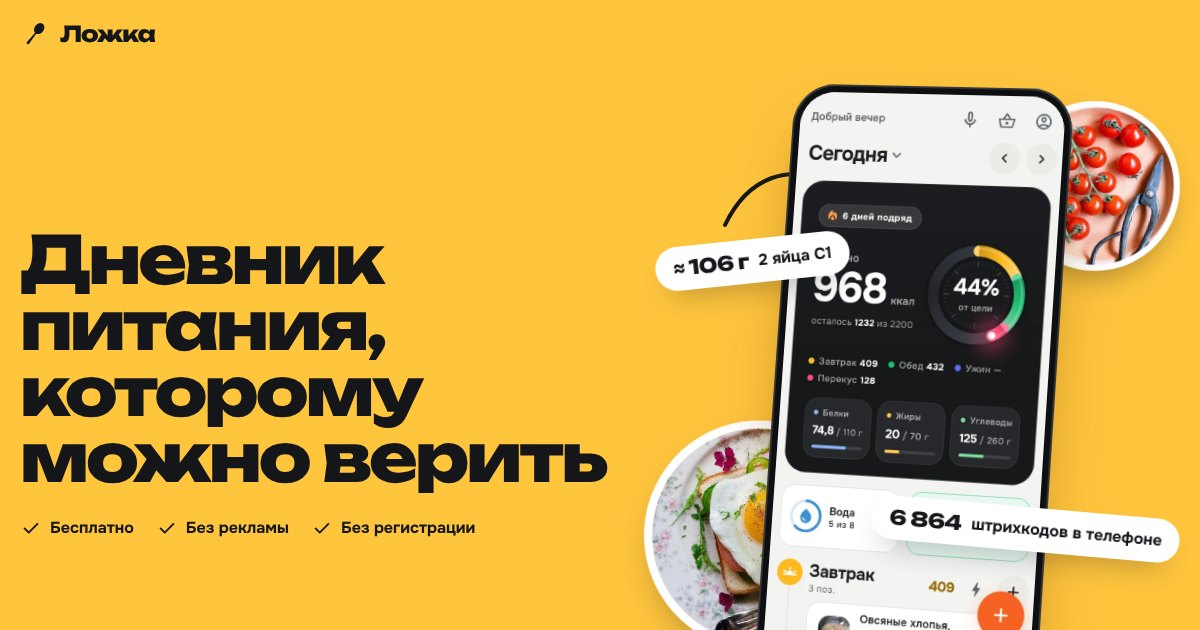
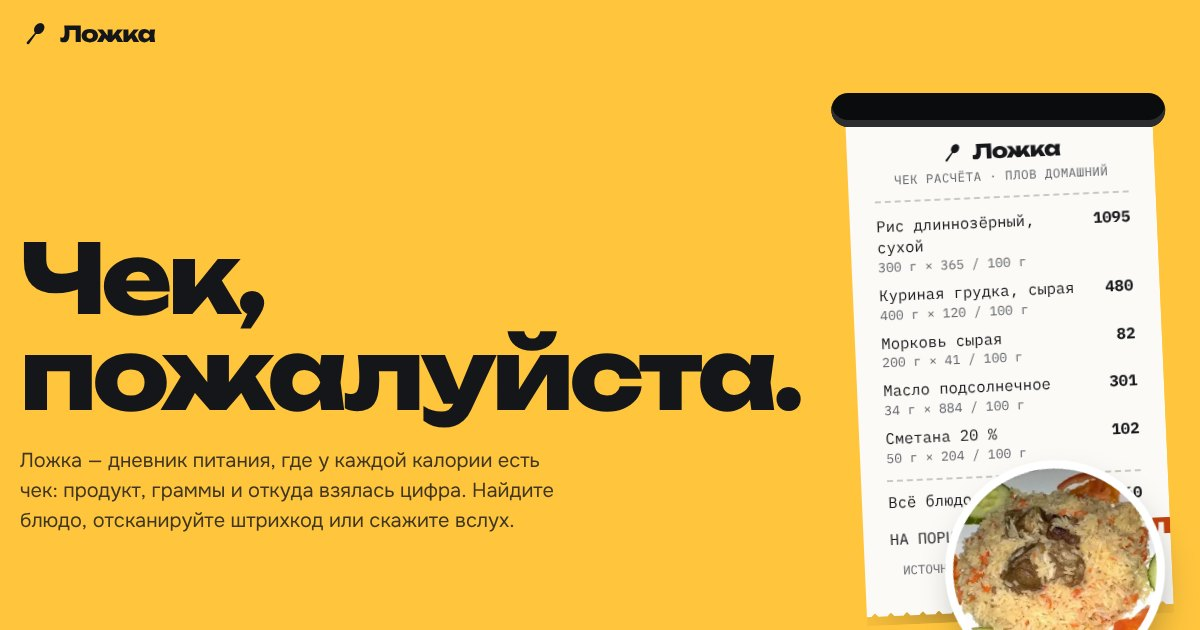
Сайт: кампания «Чек, пожалуйста.» — чек в первом экране, рубрика «Мерьте ложками», «Что внутри» чеком
Claude-Session: https://claude.ai/code/session_01JKDxRTKabQ4jgJoG6e5K5w

diff --git a/index.html b/index.html
@@ -57,6 +57,29 @@ section{position:relative;overflow:hidden}
 .c-honey .lead,.c-leaf .lead,.c-berry .lead,.c-ember .lead{color:rgba(20,22,26,.82)}
 .c-dusk .lead,.c-ink .lead{color:rgba(255,255,255,.84)}
 
+@font-face{font-family:"Plex";font-style:normal;font-display:swap;font-weight:400;src:url(fonts/ibm-plex-mono-cyrillic-400-normal.woff2) format("woff2");unicode-range:U+0400-045F}
+@font-face{font-family:"Plex";font-style:normal;font-display:swap;font-weight:400;src:url(fonts/ibm-plex-mono-latin-400-normal.woff2) format("woff2");unicode-range:U+0000-00FF,U+2000-206F,U+2248,U+00D7,U+00F7}
+@font-face{font-family:"Plex";font-style:normal;font-display:swap;font-weight:700;src:url(fonts/ibm-plex-mono-cyrillic-700-normal.woff2) format("woff2");unicode-range:U+0400-045F}
+@font-face{font-family:"Plex";font-style:normal;font-display:swap;font-weight:700;src:url(fonts/ibm-plex-mono-latin-700-normal.woff2) format("woff2");unicode-range:U+0000-00FF,U+2000-206F,U+2248,U+00D7,U+00F7}
+/* чек — главный герой кампании «Чек, пожалуйста.» */
+.tk{position:relative;background:#FBFAF6;color:#17181B;font:400 var(--fs,15px)/1.4 "Plex",ui-monospace,monospace;padding:1.8em 1.7em 1.6em;box-shadow:0 40px 80px -36px rgba(0,0,0,.6)}
+.tk::after{content:"";position:absolute;left:0;right:0;bottom:-12px;height:12px;background:linear-gradient(-45deg,transparent 8px,#FBFAF6 0) 0 0/16px 12px,linear-gradient(45deg,transparent 8px,#FBFAF6 0) 0 0/16px 12px}
+.tk .hd{text-align:center;padding-bottom:.7em;border-bottom:2px dashed #C9C8C1;margin-bottom:.6em}
+.tk .hd b{display:flex;justify-content:center;align-items:center;gap:.4em;font:800 1.3em/1.1 var(--d);letter-spacing:-.03em}
+.tk .hd b svg{width:1.2em;height:1.2em}
+.tk .hd span{display:block;font-size:.8em;color:#5E6168;margin-top:.35em;letter-spacing:.04em}
+.tk .ln{display:flex;justify-content:space-between;align-items:baseline;gap:1em;padding:.25em 0}
+.tk .ln small{display:block;color:#5E6168;font-size:.84em}
+.tk .ln em{font-style:normal;font-weight:700;white-space:nowrap}
+.tk .dt{flex:1;border-bottom:2px dotted #B9B8B1;transform:translateY(-.3em)}
+.tk .sum{border-top:2px dashed #C9C8C1;margin-top:.5em;padding-top:.7em}
+.tk .tot{display:flex;justify-content:space-between;align-items:baseline;gap:1em;margin-top:.2em;white-space:nowrap}
+.tk .tot b{font:800 1.8em/1 var(--d);letter-spacing:-.05em;color:#C2410C}
+.tk .ft{margin-top:.9em;text-align:center;font-size:.8em;color:#5E6168}
+.tk .bc{height:2.2em;margin:.8em auto 0;width:66%;background:repeating-linear-gradient(90deg,#17181B 0 2px,transparent 2px 4px,#17181B 4px 7px,transparent 7px 9px,#17181B 9px 10px,transparent 10px 13px)}
+.slot{position:absolute;height:34px;border-radius:17px;background:#0B0C0E;box-shadow:inset 0 -7px 0 #2B2D31;z-index:2}
+.rubric{display:inline-flex;align-items:center;padding:9px 16px;border-radius:999px;background:var(--dark);color:#fff;font:700 14px/1 var(--f);margin-bottom:18px}
+
 /* кнопки */
 .btn{display:inline-flex;align-items:center;justify-content:center;gap:10px;min-height:58px;padding:0 30px;border-radius:999px;font:700 19px/1 var(--f);text-decoration:none;border:0;cursor:pointer;transition:transform .15s ease,box-shadow .2s ease}
 .btn .ico{width:21px;height:21px}
@@ -104,9 +127,11 @@ section{position:relative;overflow:hidden}
 .trust{display:flex;flex-wrap:wrap;gap:10px 22px;margin:26px 0 0;padding:0;list-style:none;font-weight:700;font-size:16px}
 .trust li{display:flex;align-items:center;gap:8px}
 .fine{margin-top:14px;font-size:14px;opacity:.78}
-.stage{position:relative;height:640px;display:grid;place-items:center}
+.stage{position:relative;height:760px;display:grid;place-items:start center}
+.hero-tk{--fs:15.5px;width:min(420px,92%);margin-top:28px;rotate:-2.5deg;transform-origin:top center;z-index:1}
+.stage .slot{left:50%;translate:-50% 0;top:10px;width:min(480px,100%)}
 .stage .phone{--w:290px;z-index:1}
-.stage .p1{--p:230px;--r:-14deg;left:0;bottom:30px}
+.stage .p1{--p:220px;--r:-12deg;right:0;bottom:0;z-index:2}
 .stage .p2{--p:170px;--r:10deg;right:0;top:20px}
 .stage .s1{left:2%;top:26%;--r:-6deg}
 .stage .s2{right:0;bottom:22%;--r:5deg}
@@ -114,7 +139,8 @@ section{position:relative;overflow:hidden}
 @media (prefers-reduced-motion:no-preference){
   .hero .rv{animation:up .8s cubic-bezier(.2,.75,.2,1) both}
   .hero .rv:nth-child(2){animation-delay:.07s}.hero .rv:nth-child(3){animation-delay:.14s}.hero .rv:nth-child(4){animation-delay:.21s}.hero .rv:nth-child(5){animation-delay:.28s}
-  .stage .phone{animation:rise 1s cubic-bezier(.2,.75,.2,1) .1s both}
+  .hero-tk{animation:tprint 1.4s cubic-bezier(.3,.7,.2,1) .2s both}
+  @keyframes tprint{from{clip-path:inset(0 0 100% 0);translate:0 -260px}to{clip-path:inset(0 0 -20px 0);translate:0 0}}
   .stage .plate{animation:spin .9s cubic-bezier(.2,.8,.2,1) both,float 6s ease-in-out 1s infinite alternate}
   .stage .p2{animation-delay:.15s,1.2s}
   .stage .stk{animation:pop .6s cubic-bezier(.2,.9,.3,1.3) both}.stage .s1{animation-delay:.6s}.stage .s2{animation-delay:.8s}
@@ -124,9 +150,8 @@ section{position:relative;overflow:hidden}
   @keyframes spin{from{opacity:0;rotate:-160deg;scale:.4}}
   @keyframes float{to{translate:0 -14px}}
 }
-@media (max-width:940px){.hero .grid{grid-template-columns:1fr;min-height:0;padding-top:20px}.stage{height:560px}}
-@media (max-width:520px){.stage{height:500px}.stage .phone{--w:236px}.stage .p1{--p:150px;left:-10px;bottom:10px}.stage .p2{--p:120px;right:-6px;top:0}
-  .stage .s1{left:0;top:8%}.stage .s2{right:0;bottom:8%}.stage .doodle{display:none}.stk{font-size:14px;padding:10px 14px}.stk b{font-size:17px}}
+@media (max-width:940px){.hero .grid{grid-template-columns:1fr;min-height:0;padding-top:20px}.stage{height:740px}.stage .p1{--p:180px;right:4%;bottom:-10px}}
+@media (max-width:520px){.stage{height:580px}.hero-tk{--fs:13px}.stage .p1{--p:130px;right:-16px;bottom:0}.stk{font-size:14px;padding:10px 14px}.stk b{font-size:17px}}
 
 /* лента тарелок */
 .belt{padding:40px 0;overflow:hidden;-webkit-mask:linear-gradient(90deg,transparent,#000 6%,#000 94%,transparent);mask:linear-gradient(90deg,transparent,#000 6%,#000 94%,transparent)}
@@ -147,6 +172,15 @@ section{position:relative;overflow:hidden}
 @media (max-width:980px){.steps4{grid-template-columns:repeat(4,78%);overflow-x:auto;scroll-snap-type:x mandatory;padding-bottom:8px;margin-inline:-20px;padding-inline:20px;scrollbar-width:none}
   .st{scroll-snap-align:start}}
 @media (min-width:600px) and (max-width:980px){.steps4{grid-template-columns:repeat(4,44%)}}
+
+/* рубрика «Мерьте ложками» */
+.units{display:grid;grid-template-columns:repeat(3,1fr);gap:16px}
+.unit{border-radius:32px;padding:26px;min-height:380px;display:flex;flex-direction:column;justify-content:flex-end;gap:6px;position:relative;overflow:hidden}
+.unit .ill{position:absolute;left:0;right:0;top:20px;height:230px}
+.unit .ill svg{position:absolute}
+.unit b{font:800 clamp(22px,2.2vw,28px)/1.1 var(--d);letter-spacing:-.04em}
+.unit span{font-size:15.5px;opacity:.85}
+@media (max-width:860px){.units{grid-template-columns:1fr}.unit{min-height:320px}}
 
 /* способы — вкладки */
 .ways{display:grid;grid-template-columns:1fr 1fr;gap:clamp(24px,5vw,72px);align-items:center}
@@ -219,6 +253,14 @@ section{position:relative;overflow:hidden}
 @media (max-width:900px){.nums{grid-template-columns:1fr 1fr}}
 @media (max-width:420px){.num{padding:22px 18px;min-height:170px}}
 
+/* что внутри — чеком */
+.inside{display:grid;grid-template-columns:1fr 1fr;gap:clamp(30px,6vw,90px);align-items:center}
+.inside .head{margin-bottom:0}
+.in-tk{position:relative;padding-top:18px}
+.in-tk .slot{left:-4%;right:-4%;top:0}
+.in-tk .tk{rotate:1.5deg}
+@media (max-width:900px){.inside{grid-template-columns:1fr}}
+
 /* рецепты */
 .bento{display:grid;grid-template-columns:repeat(4,1fr);grid-auto-rows:230px;gap:14px}
 .tile{position:relative;margin:0;border-radius:28px;overflow:hidden;background:#fff}
@@ -262,8 +304,8 @@ section{position:relative;overflow:hidden}
 .final h2{font-size:clamp(38px,7vw,96px)}
 .final .lead{margin:22px auto 0}
 .final .cta{justify-content:center}
-.final .plate{--p:clamp(110px,16vw,220px)}
-.final .q1{left:-40px;top:30px;--r:-12deg}.final .q2{right:-40px;top:70px;--r:9deg}.final .q3{left:-110px;bottom:60px;--r:6deg}.final .q4{right:-110px;bottom:40px;--r:-8deg}
+.final .plate{--p:clamp(100px,12vw,170px)}
+.final .q1{left:-30px;top:10px;--r:-12deg}.final .q2{right:-30px;top:20px;--r:9deg}.final .q3{left:-110px;bottom:60px;--r:6deg}.final .q4{right:-110px;bottom:40px;--r:-8deg}
 .inst{position:relative;display:grid;grid-template-columns:repeat(3,1fr);gap:16px;margin:64px 0 0;padding:0;list-style:none;text-align:left;counter-reset:s;z-index:1}
 .inst li{counter-increment:s;background:#fff;border-radius:28px;padding:24px;color:var(--dark);box-shadow:0 20px 40px -26px rgba(20,22,26,.5)}
 .inst li::before{content:counter(s);display:grid;place-items:center;width:44px;height:44px;border-radius:50%;background:var(--dark);color:#fff;font:800 18px/1 var(--d);margin-bottom:16px}
@@ -272,7 +314,7 @@ section{position:relative;overflow:hidden}
 .final .wrap{position:relative;z-index:1}
 @media (max-width:1300px){.final .q3,.final .q4{display:none}}
 @media (max-width:860px){.inst{grid-template-columns:1fr}}
-@media (max-width:520px){.final .q1{left:-30px;top:20px}.final .q2{right:-30px;top:40px}}
+@media (max-width:520px){.final{padding-top:170px}.final .plate{--p:100px}.final .q1{left:-24px;top:16px}.final .q2{right:-24px;top:30px}}
 
 /* подробности */
 .more2{display:grid;grid-template-columns:1fr 1fr;gap:clamp(24px,5vw,72px)}
@@ -313,24 +355,31 @@ footer a{color:#fff}
   <div class="wrap grid">
     <div>
       <a class="news rv" href="#more"><b>Новое</b>Версия 0.23.3: легче читать, удобнее нажимать</a>
-      <h1 class="rv">Дневник питания, которому можно верить</h1>
-      <p class="lead rv">Найдите блюдо, отсканируйте штрихкод или скажите вслух — Ложка посчитает калории и покажет, откуда взялась каждая цифра.</p>
+      <h1 class="rv">Чек, пожалуйста.</h1>
+      <p class="lead rv">Ложка — дневник питания, где у каждой калории есть чек: продукт, граммы и откуда взялась цифра. Найдите блюдо, отсканируйте штрихкод или скажите вслух.</p>
       <div class="cta rv">
         <a class="btn btn-dark" href="Lozhka-0.23.3-arm64.apk"><svg class="ico" viewBox="0 0 24 24" fill="none" stroke="currentColor" stroke-width="2" stroke-linecap="round" stroke-linejoin="round" aria-hidden="true"><path d="M12 4v11M7 11l5 5 5-5M5 20h14"/></svg>Скачать для Android</a>
-        <a class="btn btn-line" href="#steps">Как это работает</a>
+        <a class="btn btn-line" href="#check">Посмотреть чек</a>
       </div>
       <div class="rv">
         <ul class="trust"><li><svg class="ico" viewBox="0 0 24 24" fill="none" stroke="currentColor" stroke-width="2" stroke-linecap="round" stroke-linejoin="round" aria-hidden="true"><path d="M5 12.5l4.5 4.5L19 7.5"/></svg>Бесплатно</li><li><svg class="ico" viewBox="0 0 24 24" fill="none" stroke="currentColor" stroke-width="2" stroke-linecap="round" stroke-linejoin="round" aria-hidden="true"><path d="M5 12.5l4.5 4.5L19 7.5"/></svg>Без рекламы</li><li><svg class="ico" viewBox="0 0 24 24" fill="none" stroke="currentColor" stroke-width="2" stroke-linecap="round" stroke-linejoin="round" aria-hidden="true"><path d="M5 12.5l4.5 4.5L19 7.5"/></svg>Без регистрации</li></ul>
         <p class="fine">Версия 0.23.3 от 21 ноября 2026 · Android 7 и новее · 59 МБ. Для старых 32-битных телефонов — <a href="Lozhka-0.23.3-arm32.apk">другой файл</a>.</p>
       </div>
     </div>
-    <div class="stage" aria-hidden="true">
-      <div class="plate p1"><img src="img/plate/toast.webp" alt="" width="400" height="400"></div>
-      <div class="plate p2"><img src="img/plate/tomato.webp" alt="" width="400" height="400"></div>
-      <svg class="doodle" viewBox="0 0 120 80"><path d="M6 70 C 30 20, 70 10, 112 26"/><path d="M92 8 L113 26 L90 42"/></svg>
-      <div class="phone tilt-r" style="--sh:rgba(120,70,0,.5)"><img src="img/scr/today.webp" alt="" width="720" height="1560" fetchpriority="high"></div>
-      <div class="stk s1"><b>≈ 106 г</b>2 яйца С1</div>
-      <div class="stk s2"><b>6 864</b>штрихкодов в телефоне</div>
+    <div class="stage">
+      <div class="plate p1" aria-hidden="true"><img src="img/plate/r-lib-012.webp" alt="" width="300" height="300"></div>
+      <div class="slot" aria-hidden="true"></div>
+      <div class="tk hero-tk" aria-label="Чек расчёта: плов домашний, 515 ккал на порцию">
+        <div class="hd"><b><svg viewBox="20 20 68 68" aria-hidden="true"><path fill="#14161A" d="M71.82,48.25 L71.06,49.15 L70.25,50.00 L69.38,50.78 L68.48,51.50 L67.53,52.14 L66.55,52.70 L65.55,53.18 L64.54,53.58 L63.52,53.88 L62.49,54.09 L61.48,54.21 L60.48,54.23 L59.51,54.16 L58.56,53.99 L57.66,53.73 L56.79,53.38 L55.98,52.95 L55.23,52.42 L54.54,51.82 L53.92,51.14 L53.37,50.39 L52.90,49.57 L52.51,48.70 L52.21,47.77 L51.99,46.79 L51.86,45.78 L51.82,44.74 L51.86,43.67 L52.00,42.59 L52.22,41.51 L52.53,40.42 L52.92,39.35 L53.40,38.30 L53.95,37.27 L54.58,36.27 L55.27,35.32 L56.02,34.42 L56.84,33.57 L57.70,32.79 L58.61,32.07 L59.56,31.43 L60.53,30.87 L61.53,30.39 L62.55,30.00 L63.57,29.69 L64.59,29.48 L65.61,29.36 L66.60,29.34 L67.58,29.41 L68.52,29.58 L69.43,29.84 L70.29,30.19 L71.10,30.62 L71.85,31.15 L72.54,31.75 L73.16,32.43 L73.71,33.18 L74.18,34.00 L74.57,34.88 L74.88,35.81 L75.10,36.78 L75.23,37.79 L75.27,38.83 L75.22,39.90 L75.09,40.98 L74.86,42.07 L74.55,43.15 L74.16,44.22 L73.69,45.28 L73.13,46.30 L72.51,47.30 Z M60.27,48.65 L59.59,49.54 L58.92,50.44 L58.24,51.34 L57.58,52.24 L56.91,53.15 L56.25,54.05 L55.58,54.96 L54.92,55.87 L54.26,56.78 L53.61,57.69 L52.95,58.60 L52.30,59.51 L51.64,60.43 L50.99,61.34 L50.34,62.26 L49.69,63.18 L49.04,64.09 L48.39,65.01 L47.74,65.93 L47.10,66.85 L46.45,67.77 L45.81,68.69 L45.16,69.61 L44.52,70.53 L43.88,71.46 L43.24,72.38 L42.60,73.31 L41.96,74.23 L41.32,75.16 L40.68,76.08 L40.68,76.08 L40.26,76.52 L39.77,76.87 L39.21,77.12 L38.62,77.25 L38.01,77.26 L37.41,77.16 L36.84,76.94 L36.33,76.62 L35.89,76.20 L35.54,75.70 L35.29,75.14 L35.16,74.55 L35.15,73.94 L35.25,73.34 L35.47,72.78 L35.80,72.26 L35.80,72.26 L36.54,71.42 L37.28,70.58 L38.03,69.73 L38.77,68.89 L39.51,68.04 L40.25,67.20 L40.99,66.35 L41.73,65.50 L42.47,64.65 L43.20,63.81 L43.94,62.96 L44.67,62.11 L45.41,61.26 L46.14,60.40 L46.87,59.55 L47.60,58.70 L48.33,57.84 L49.06,56.99 L49.79,56.13 L50.52,55.27 L51.24,54.42 L51.96,53.56 L52.68,52.70 L53.40,51.83 L54.12,50.97 L54.84,50.11 L55.55,49.24 L56.26,48.37 L56.97,47.50 L57.67,46.62 Z"/></svg>Ложка</b><span>ЧЕК РАСЧЁТА · ПЛОВ ДОМАШНИЙ</span></div>
+        <div class="ln"><div>Рис длиннозёрный, сухой<small>300 г × 365 / 100 г</small></div><em>1095</em></div>
+        <div class="ln"><div>Куриная грудка, сырая<small>400 г × 120 / 100 г</small></div><em>480</em></div>
+        <div class="ln"><div>Морковь сырая<small>200 г × 41 / 100 г</small></div><em>82</em></div>
+        <div class="ln"><div>Масло подсолнечное<small>34 г × 884 / 100 г</small></div><em>301</em></div>
+        <div class="ln"><div>Сметана 20 %<small>50 г × 204 / 100 г</small></div><em>102</em></div>
+        <div class="ln sum"><div>Всё блюдо</div><em>2060</em></div>
+        <div class="tot"><span>НА ПОРЦИЮ ÷ 4</span><b>515 ккал</b></div>
+        <p class="ft">ИСТОЧНИК: USDA FoodData Central</p>
+      </div>
     </div>
   </div>
 </section>
@@ -340,8 +389,8 @@ footer a{color:#fff}
 <section class="pad c-mist" id="steps">
   <div class="wrap">
     <div class="head">
-      <h2>2 яйца на завтрак — 4 касания</h2>
-      <p class="lead">Без весов: Ложка знает типовую массу яйца, ложки сметаны и стакана молока.</p>
+      <h2>Чек на завтрак — за 4 касания</h2>
+      <p class="lead">2 яйца — «+», первый результат, мера «яйцо С1», «Добавить». И в дневнике чек: 2 × яйцо С1 ≈ 106 г, 152 ккал.</p>
     </div>
     <div class="steps4">
       <div class="st c-honey"><span class="n">1</span><h3>«+» у завтрака</h3><div class="phone newbie"><img src="img/scr/t1-1.webp" alt="Экран «Сегодня», кнопка «+» у завтрака" width="540" height="1110" loading="lazy"></div></div>
@@ -353,7 +402,20 @@ footer a{color:#fff}
   </div>
 </section>
 
-<section class="pad" id="ways">
+
+<section class="pad" id="spoons">
+  <div class="wrap">
+    <div class="head"><span class="rubric">Мерьте ложками</span><h2>Весов нет? Считайте привычными мерами</h2>
+      <p class="lead">Яйцо, ложка сметаны, стакан молока — Ложка переведёт в граммы по типовой массе и честно поставит «≈». Взвесили — введите граммы, и «≈» исчезнет.</p></div>
+    <div class="units">
+      <div class="unit c-honey"><div class="ill"><svg viewBox="0 0 100 124" aria-hidden="true" style="left:calc(50% - 150px);top:10px;width:140px;rotate:-10deg"><ellipse cx="50" cy="119" rx="34" ry="5" fill="rgba(0,0,0,.18)"/><path d="M50 4C76 4 94 52 94 76c0 26-19 42-44 42S6 102 6 76C6 52 24 4 50 4z" fill="#FFF6E6"/><path d="M94 76c0 26-19 42-44 42 18-8 30-24 30-44 0-22-10-46-22-62 20 8 36 44 36 64z" fill="rgba(170,110,30,.14)"/><path d="M29 32c-8 12-12 26-11 38" stroke="#fff" stroke-width="7" stroke-linecap="round" fill="none"/></svg><svg viewBox="0 0 100 124" aria-hidden="true" style="left:calc(50% + 10px);top:24px;width:140px;rotate:12deg"><ellipse cx="50" cy="119" rx="34" ry="5" fill="rgba(0,0,0,.18)"/><path d="M50 4C76 4 94 52 94 76c0 26-19 42-44 42S6 102 6 76C6 52 24 4 50 4z" fill="#FFF6E6"/><path d="M94 76c0 26-19 42-44 42 18-8 30-24 30-44 0-22-10-46-22-62 20 8 36 44 36 64z" fill="rgba(170,110,30,.14)"/><path d="M29 32c-8 12-12 26-11 38" stroke="#fff" stroke-width="7" stroke-linecap="round" fill="none"/></svg></div><b>2 яйца С1 ≈ 106 г</b><span>Типовая масса по ГОСТ</span></div>
+      <div class="unit c-berry"><div class="ill"><svg viewBox="0 0 100 260" aria-hidden="true" style="left:calc(50% - 120px);top:0;width:76px;rotate:-24deg"><defs><linearGradient id="sg1" x1="0" x2="1"><stop offset="0" stop-color="#F7F8FA"/><stop offset=".55" stop-color="#CDD1D7"/><stop offset="1" stop-color="#959BA4"/></linearGradient></defs><ellipse cx="50" cy="60" rx="40" ry="54" fill="url(#sg1)"/><ellipse cx="50" cy="62" rx="32" ry="44" fill="#B6BBC3"/><path d="M26 60c0-17 11-29 24-29s24 12 24 29c0 12-11 20-24 20S26 72 26 60z" fill="#FFFDF6"/><path d="M38 42c6-6 15-6 20 1" stroke="#fff" stroke-width="5" stroke-linecap="round" fill="none"/><path d="M43 110 Q50 122 57 110 L60 246 Q50 258 40 246Z" fill="url(#sg1)"/></svg><svg viewBox="0 0 100 260" aria-hidden="true" style="left:calc(50% + 30px);top:-6px;width:76px;rotate:16deg"><defs><linearGradient id="sg2" x1="0" x2="1"><stop offset="0" stop-color="#F7F8FA"/><stop offset=".55" stop-color="#CDD1D7"/><stop offset="1" stop-color="#959BA4"/></linearGradient></defs><ellipse cx="50" cy="60" rx="40" ry="54" fill="url(#sg2)"/><ellipse cx="50" cy="62" rx="32" ry="44" fill="#B6BBC3"/><path d="M26 60c0-17 11-29 24-29s24 12 24 29c0 12-11 20-24 20S26 72 26 60z" fill="#FFFDF6"/><path d="M38 42c6-6 15-6 20 1" stroke="#fff" stroke-width="5" stroke-linecap="round" fill="none"/><path d="M43 110 Q50 122 57 110 L60 246 Q50 258 40 246Z" fill="url(#sg2)"/></svg></div><b>2 ложки сметаны ≈ 50 г</b><span>10 % — 58 ккал, 20 % — 102 ккал</span></div>
+      <div class="unit c-dusk"><div class="ill"><svg viewBox="0 0 100 140" aria-hidden="true" style="left:calc(50% - 60px);top:20px;width:120px"><path d="M12 6h76l-9 126H21z" fill="rgba(255,255,255,.25)" stroke="#fff" stroke-width="4" stroke-linejoin="round"/><path d="M17.5 42h65l-6.4 86H23.9z" fill="#FFFFFF"/><path d="M24 14l4 50" stroke="rgba(255,255,255,.7)" stroke-width="5" stroke-linecap="round"/></svg></div><b>1 стакан = 240 мл</b><span>Мера из справочника USDA</span></div>
+    </div>
+  </div>
+</section>
+
+<section class="pad c-mist" id="ways">
   <div class="wrap">
     <div class="head">
       <h2>Четыре способа записать еду</h2>
@@ -416,14 +478,21 @@ footer a{color:#fff}
   </div>
 </section>
 
-<section class="pad">
-  <div class="wrap">
-    <div class="head"><h2>Всё уже внутри</h2><p class="lead">Справочник, товары и рецепты лежат в самом приложении — поиск работает даже в самолёте.</p></div>
-    <div class="nums">
-      <div class="num c-honey"><b data-n="1827">1 827</b><span>продуктов в справочнике</span></div>
-      <div class="num c-leaf"><b data-n="6864">6 864</b><span>товаров со штрихкодом</span></div>
-      <div class="num c-berry"><b data-n="464">464</b><span>рецептов с калориями на порцию</span></div>
-      <div class="num c-dusk"><b>0</b><span>рекламы, подписок и регистрации</span></div>
+<section class="pad c-leaf" id="inside">
+  <div class="wrap inside">
+    <div class="head"><h2>Что внутри Ложки</h2><p class="lead">Справочник, товары и рецепты лежат в самом приложении — поиск работает даже в самолёте.</p></div>
+    <div class="in-tk">
+      <div class="slot" aria-hidden="true"></div>
+      <div class="tk" style="--fs:clamp(14px,1.6vw,19px)">
+        <div class="hd"><b><svg viewBox="20 20 68 68" aria-hidden="true"><path fill="#14161A" d="M71.82,48.25 L71.06,49.15 L70.25,50.00 L69.38,50.78 L68.48,51.50 L67.53,52.14 L66.55,52.70 L65.55,53.18 L64.54,53.58 L63.52,53.88 L62.49,54.09 L61.48,54.21 L60.48,54.23 L59.51,54.16 L58.56,53.99 L57.66,53.73 L56.79,53.38 L55.98,52.95 L55.23,52.42 L54.54,51.82 L53.92,51.14 L53.37,50.39 L52.90,49.57 L52.51,48.70 L52.21,47.77 L51.99,46.79 L51.86,45.78 L51.82,44.74 L51.86,43.67 L52.00,42.59 L52.22,41.51 L52.53,40.42 L52.92,39.35 L53.40,38.30 L53.95,37.27 L54.58,36.27 L55.27,35.32 L56.02,34.42 L56.84,33.57 L57.70,32.79 L58.61,32.07 L59.56,31.43 L60.53,30.87 L61.53,30.39 L62.55,30.00 L63.57,29.69 L64.59,29.48 L65.61,29.36 L66.60,29.34 L67.58,29.41 L68.52,29.58 L69.43,29.84 L70.29,30.19 L71.10,30.62 L71.85,31.15 L72.54,31.75 L73.16,32.43 L73.71,33.18 L74.18,34.00 L74.57,34.88 L74.88,35.81 L75.10,36.78 L75.23,37.79 L75.27,38.83 L75.22,39.90 L75.09,40.98 L74.86,42.07 L74.55,43.15 L74.16,44.22 L73.69,45.28 L73.13,46.30 L72.51,47.30 Z M60.27,48.65 L59.59,49.54 L58.92,50.44 L58.24,51.34 L57.58,52.24 L56.91,53.15 L56.25,54.05 L55.58,54.96 L54.92,55.87 L54.26,56.78 L53.61,57.69 L52.95,58.60 L52.30,59.51 L51.64,60.43 L50.99,61.34 L50.34,62.26 L49.69,63.18 L49.04,64.09 L48.39,65.01 L47.74,65.93 L47.10,66.85 L46.45,67.77 L45.81,68.69 L45.16,69.61 L44.52,70.53 L43.88,71.46 L43.24,72.38 L42.60,73.31 L41.96,74.23 L41.32,75.16 L40.68,76.08 L40.68,76.08 L40.26,76.52 L39.77,76.87 L39.21,77.12 L38.62,77.25 L38.01,77.26 L37.41,77.16 L36.84,76.94 L36.33,76.62 L35.89,76.20 L35.54,75.70 L35.29,75.14 L35.16,74.55 L35.15,73.94 L35.25,73.34 L35.47,72.78 L35.80,72.26 L35.80,72.26 L36.54,71.42 L37.28,70.58 L38.03,69.73 L38.77,68.89 L39.51,68.04 L40.25,67.20 L40.99,66.35 L41.73,65.50 L42.47,64.65 L43.20,63.81 L43.94,62.96 L44.67,62.11 L45.41,61.26 L46.14,60.40 L46.87,59.55 L47.60,58.70 L48.33,57.84 L49.06,56.99 L49.79,56.13 L50.52,55.27 L51.24,54.42 L51.96,53.56 L52.68,52.70 L53.40,51.83 L54.12,50.97 L54.84,50.11 L55.55,49.24 L56.26,48.37 L56.97,47.50 L57.67,46.62 Z"/></svg>Ложка</b><span>ВСЁ УЖЕ В ТЕЛЕФОНЕ</span></div>
+        <div class="ln"><div>Продуктов</div><span class="dt"></span><em data-n="1827">1 827</em></div>
+        <div class="ln"><div>Товаров со штрихкодом</div><span class="dt"></span><em data-n="6864">6 864</em></div>
+        <div class="ln"><div>Рецептов</div><span class="dt"></span><em data-n="464">464</em></div>
+        <div class="ln"><div>Рекламы</div><span class="dt"></span><em>0</em></div>
+        <div class="ln"><div>Регистрации</div><span class="dt"></span><em>0</em></div>
+        <div class="tot sum"><span>ИТОГО</span><b>бесплатно</b></div>
+        <div class="bc"></div>
+      </div>
     </div>
   </div>
 </section>
@@ -485,8 +554,8 @@ footer a{color:#fff}
   <div class="plate q3" aria-hidden="true"><img src="img/plate/mandarin.webp" alt="" width="400" height="400" loading="lazy"></div>
   <div class="plate q4" aria-hidden="true"><img src="img/plate/granola.webp" alt="" width="400" height="400" loading="lazy"></div>
   <div class="wrap">
-    <h2>Бесплатно. Без рекламы. Без регистрации.</h2>
-    <p class="lead">Установка — три шага.</p>
+    <h2>Чек, пожалуйста.</h2>
+    <p class="lead">Бесплатно. Без рекламы. Без регистрации. Установка — три шага.</p>
     <div class="cta">
       <a class="btn btn-dark" href="Lozhka-0.23.3-arm64.apk"><svg class="ico" viewBox="0 0 24 24" fill="none" stroke="currentColor" stroke-width="2" stroke-linecap="round" stroke-linejoin="round" aria-hidden="true"><path d="M12 4v11M7 11l5 5 5-5M5 20h14"/></svg>Скачать для Android</a>
       <a class="btn btn-line" href="Lozhka-0.23.3-arm32.apk">Для 32-битных телефонов</a>
@@ -563,7 +632,7 @@ footer a{color:#fff}
     if(still)return;var n=+el.dataset.n,t0=performance.now();
     (function step(t){var p=Math.min(1,(t-t0)/1400),v=Math.round(n*(1-Math.pow(1-p,3)));el.textContent=String(v).replace(/\B(?=(\d{3})+(?!\d))/g,'\u00a0');if(p<1)requestAnimationFrame(step)})(t0)})},{threshold:.2});
   io.observe(document.querySelector('.check'));
-  document.querySelectorAll('.num b[data-n]').forEach(function(b){io.observe(b)});
+  document.querySelectorAll('[data-n]').forEach(function(b){io.observe(b)});
 })();
 </script>
 
